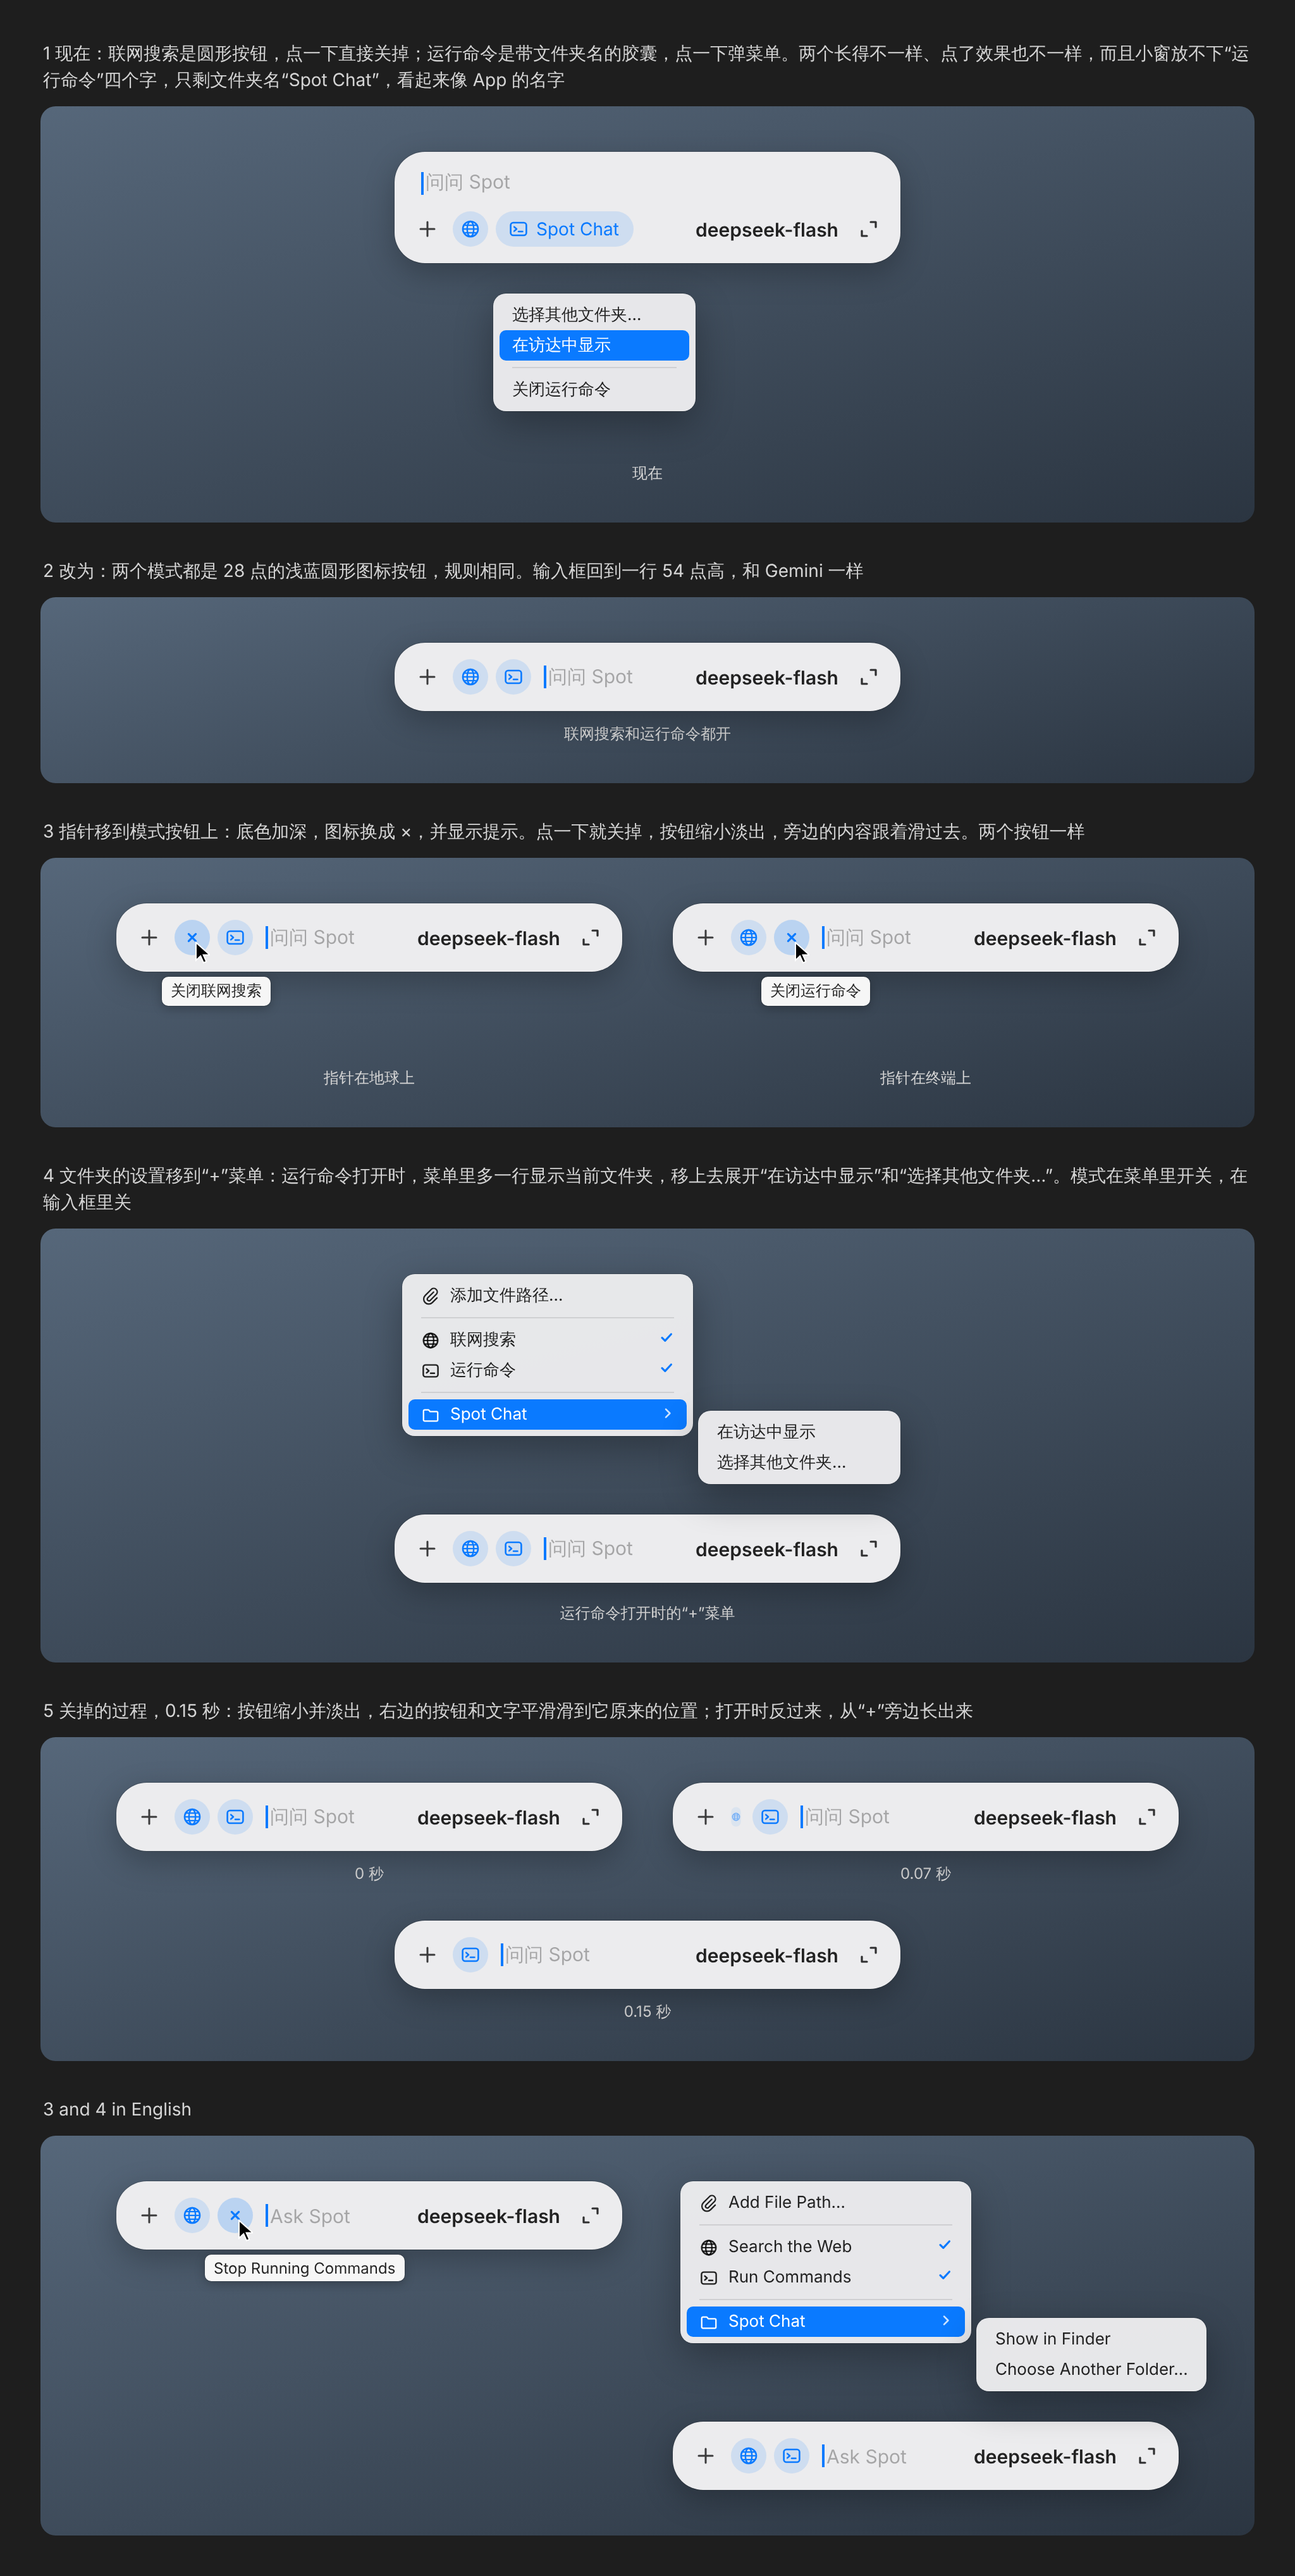
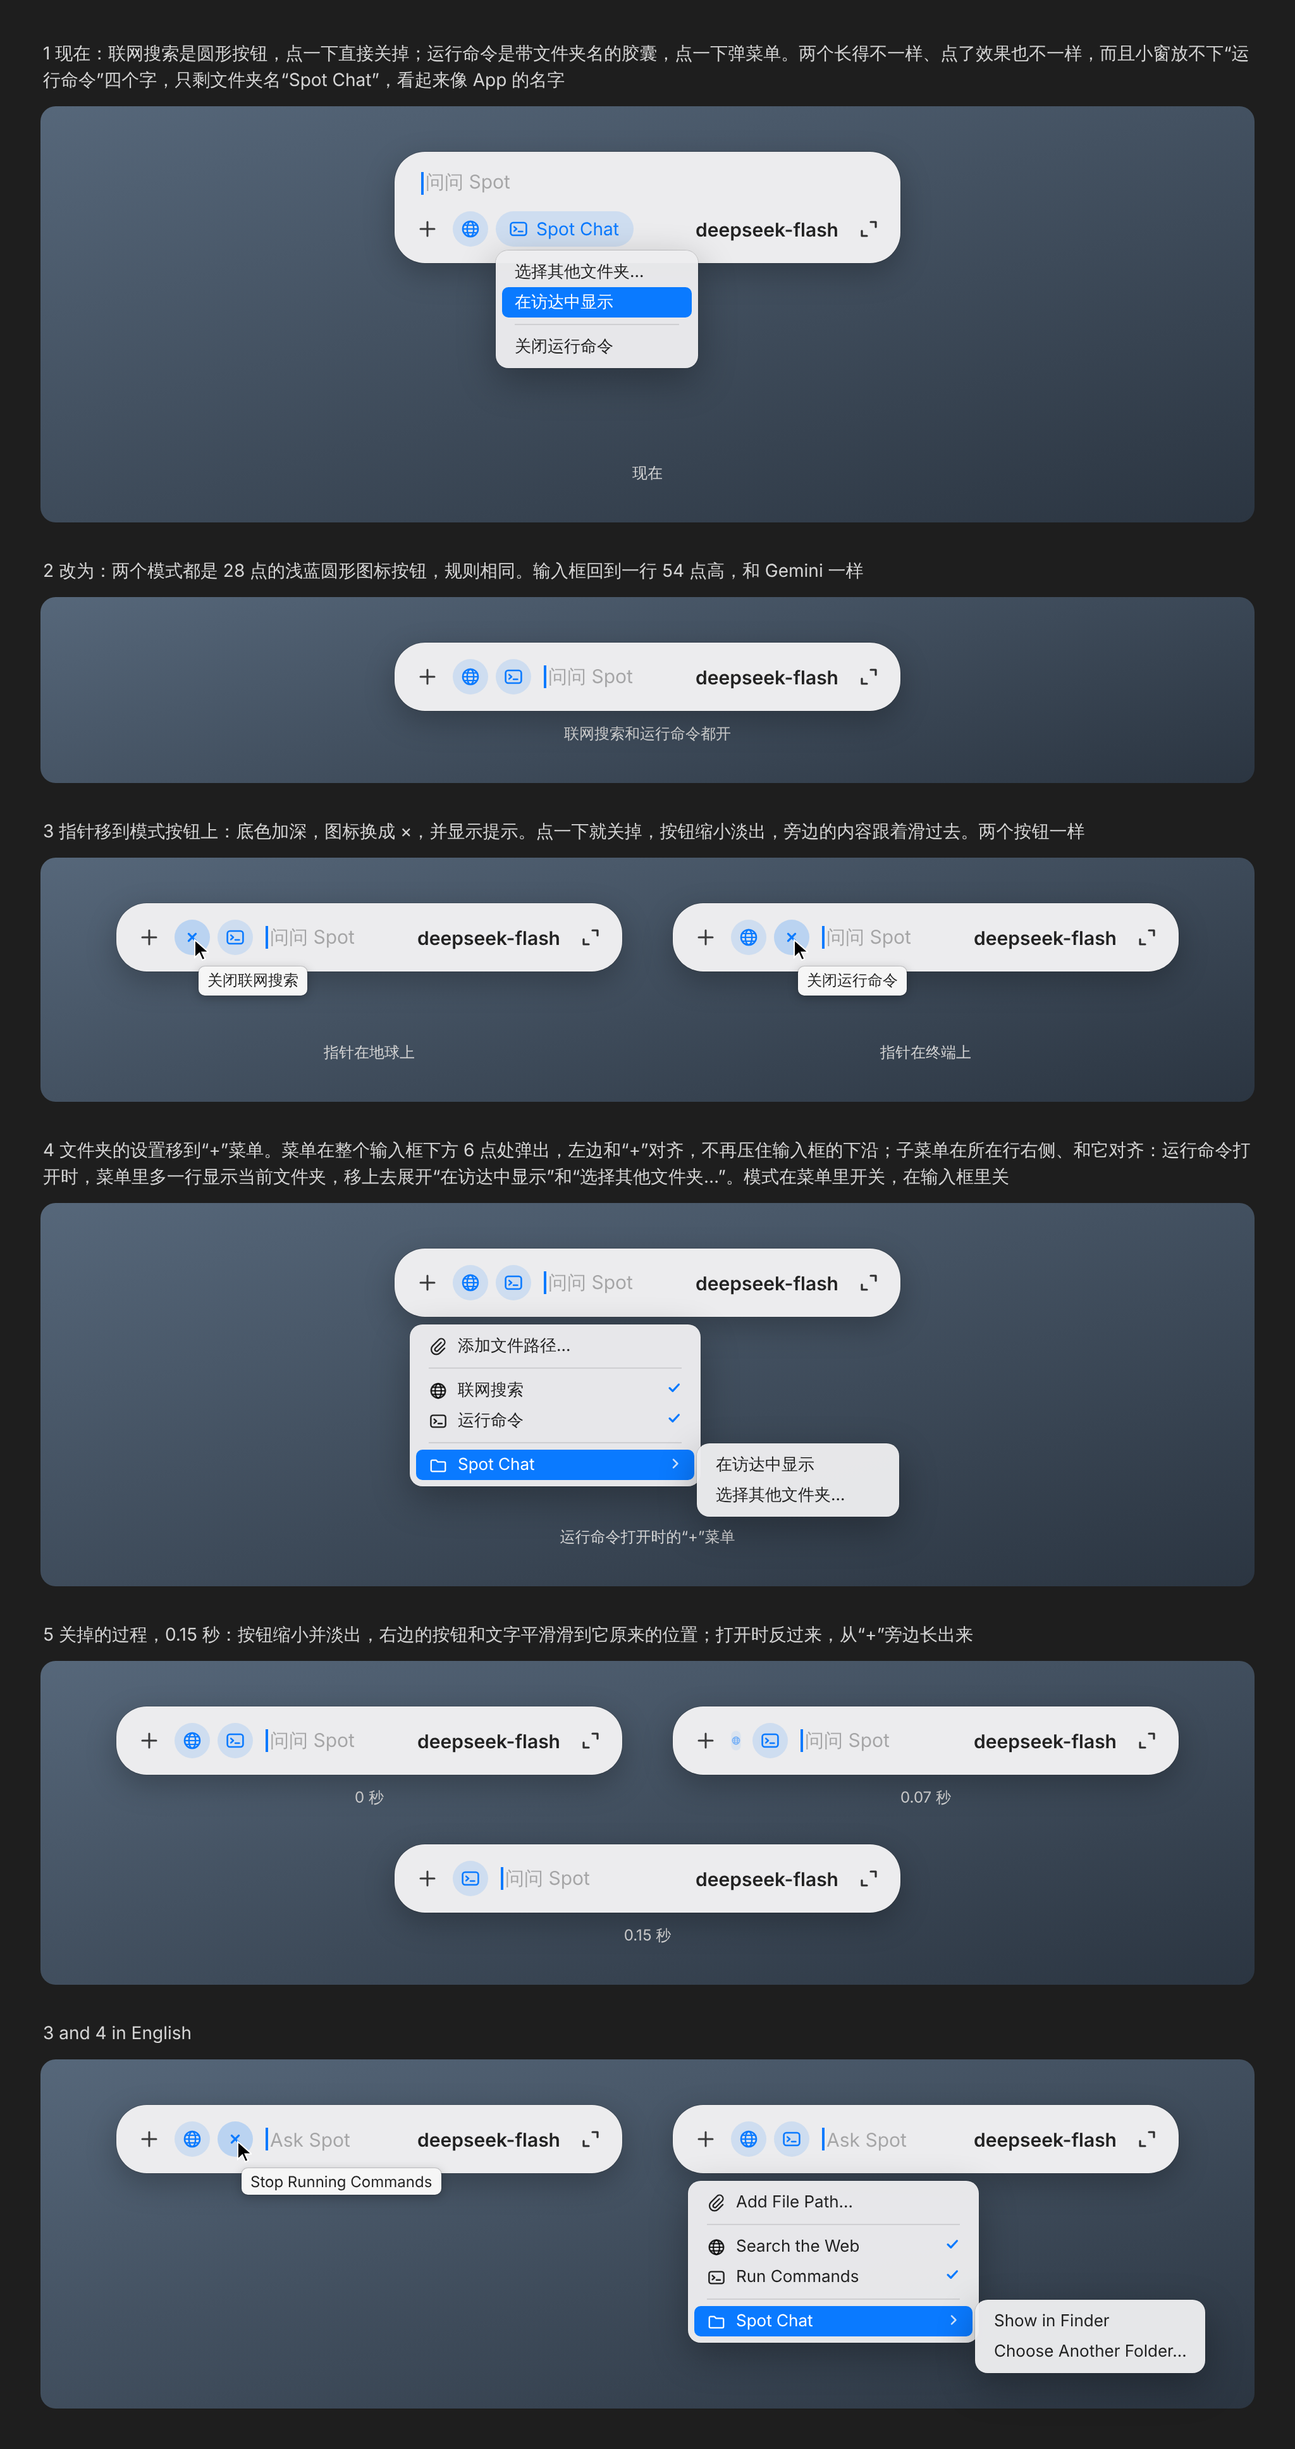
Mode buttons mockup: menus, submenus and tooltips where macOS puts them; the + menu below the whole input [skip ci]
Claude-Session: https://claude.ai/code/session_01REvHc4SjjqMcxY8UXeyBUw

Changed region(s): [[0.0312, 0.0, 0.9688, 0.9688], [0.75, 0.0, 0.7812, 0.0312]]

diff --git a/docs/design/mode-buttons.html b/docs/design/mode-buttons.html
@@ -75,7 +75,7 @@ body{margin:0;background:#1e1e1e;font-family:-apple-system,"SF Pro Text","PingFa
           <span class="b"><svg width="16" height="16"><use href="#expand"/></svg></span>
         </div>
       </div>
-      <div class="menu" style="left:78px;top:112px;min-width:160px">
+      <div class="menu" style="left:80px;top:78px;min-width:160px">
         <div class="mi">选择其他文件夹…</div><div class="mi sel">在访达中显示</div><div class="sep"></div><div class="mi">关闭运行命令</div>
       </div>
     </div><div class="label">现在</div></div>
@@ -98,9 +98,9 @@ body{margin:0;background:#1e1e1e;font-family:-apple-system,"SF Pro Text","PingFa
 </div>
 
 <div>
-  <p class="cap">4  文件夹的设置移到“+”菜单：运行命令打开时，菜单里多一行显示当前文件夹，移上去展开“在访达中显示”和“选择其他文件夹…”。模式在菜单里开关，在输入框里关</p>
+  <p class="cap">4  文件夹的设置移到“+”菜单。菜单在整个输入框下方 6 点处弹出，左边和“+”对齐，不再压住输入框的下沿；子菜单在所在行右侧、和它对齐：运行命令打开时，菜单里多一行显示当前文件夹，移上去展开“在访达中显示”和“选择其他文件夹…”。模式在菜单里开关，在输入框里关</p>
   <div class="stage">
-    <div class="cell"><div class="slot" data-bar="menu" style="height:240px"></div><div class="label">运行命令打开时的“+”菜单</div></div>
+    <div class="cell"><div class="slot" data-bar="menu"></div><div class="label">运行命令打开时的“+”菜单</div></div>
   </div>
 </div>
 
@@ -113,7 +113,7 @@ body{margin:0;background:#1e1e1e;font-family:-apple-system,"SF Pro Text","PingFa
   <p class="cap">3 and 4 in English</p>
   <div class="stage">
     <div class="cell"><div class="slot" data-bar="cmd-hover-en" style="height:110px"></div></div>
-    <div class="cell"><div class="slot" data-bar="menu-en" style="height:240px"></div></div>
+    <div class="cell"><div class="slot" data-bar="menu-en"></div></div>
   </div>
 </div>
 
@@ -124,18 +124,26 @@ body{margin:0;background:#1e1e1e;font-family:-apple-system,"SF Pro Text","PingFa
     const b = n.querySelector('.bar'); b.style.position = 'absolute'; b.style.top = top + 'px'
     slot.append(n); return slot.querySelector('.bar')
   }
+  // Where macOS puts things: a tooltip just below and right of the pointer's tip; a submenu beside its item,
+  // its first item level with that item. The + menu opens 6 below the whole input, lined up with the +,
+  // rather than 4 below the + button, which put it over the input's lower edge.
   function hover(b, which, tip, slot, en) {
+    if (en) b.querySelector('.ph').textContent = 'Ask Spot'
     const btn = b.querySelector(which); btn.classList.add('hover')
     btn.innerHTML = '<svg width="10" height="10"><use href="#x"/></svg>'
-    const t = document.createElement('div'); t.className = 'tip'; t.textContent = tip
-    const left = btn.offsetLeft; t.style.left = (left - 10) + 'px'; t.style.top = (b.offsetTop + 58) + 'px'
-    slot.append(t)
+    const x = b.offsetLeft + btn.offsetLeft + 15, y = b.offsetTop + btn.offsetTop + 15
     const p = document.createElementNS('http://www.w3.org/2000/svg', 'svg'); p.setAttribute('class', 'pointer')
-    p.innerHTML = '<use href="#arrow"/>'; p.style.left = (left + 16) + 'px'; p.style.top = (b.offsetTop + 30) + 'px'; slot.append(p)
-    if (en) b.querySelector('.ph').textContent = 'Ask Spot'
+    p.innerHTML = '<use href="#arrow"/>'; p.style.left = x + 'px'; p.style.top = y + 'px'; slot.append(p)
+    const t = document.createElement('div'); t.className = 'tip'; t.textContent = tip
+    t.style.left = (x + 4) + 'px'; t.style.top = (y + 22) + 'px'
+    slot.append(t)
   }
   function menu(slot, b, en) {
-    const m = document.createElement('div'); m.className = 'menu'; m.style.left = '6px'; m.style.top = '0px'; m.style.minWidth = '230px'
+    if (en) b.querySelector('.ph').textContent = 'Ask Spot'
+    const plus = b.querySelector('.b')
+    const m = document.createElement('div'); m.className = 'menu'; m.style.minWidth = '230px'
+    m.style.left = (b.offsetLeft + plus.offsetLeft) + 'px'
+    m.style.top = (b.offsetTop + b.offsetHeight + 6) + 'px'
     const z = en
       ? ['Add File Path…', 'Search the Web', 'Run Commands', 'Spot Chat', 'Show in Finder', 'Choose Another Folder…']
       : ['添加文件路径…', '联网搜索', '运行命令', 'Spot Chat', '在访达中显示', '选择其他文件夹…']
@@ -145,18 +153,20 @@ body{margin:0;background:#1e1e1e;font-family:-apple-system,"SF Pro Text","PingFa
       <div class="sep"></div>
       <div class="mi sel"><svg width="15" height="15"><use href="#folder"/></svg>${z[3]}<span class="r"><svg width="10" height="10"><use href="#chev"/></svg></span></div>`
     slot.append(m)
-    const s = document.createElement('div'); s.className = 'menu'; s.style.left = '240px'; s.style.top = '108px'; s.style.minWidth = '160px'
+    const item = m.querySelector('.mi.sel')
+    const s = document.createElement('div'); s.className = 'menu'; s.style.minWidth = '160px'
+    s.style.left = (m.offsetLeft + m.offsetWidth - 3) + 'px'
+    s.style.top = (m.offsetTop + item.offsetTop - 5) + 'px'
     s.innerHTML = `<div class="mi">${z[4]}</div><div class="mi">${z[5]}</div>`
     slot.append(s)
-    if (en) b.querySelector('.ph').textContent = 'Ask Spot'
   }
   for (const slot of document.querySelectorAll('[data-bar]')) {
     const kind = slot.dataset.bar
     if (kind === 'menu' || kind === 'menu-en') {
-      slot.style.height = '250px'
-      const b = bar(slot, 190); menu(slot, b, kind === 'menu-en')
+      slot.style.height = '210px'
+      const b = bar(slot, 0); menu(slot, b, kind === 'menu-en')
     } else if (kind) {
-      slot.style.height = '120px'
+      slot.style.height = '100px'
       const b = bar(slot, 0)
       if (kind === 'search-hover') hover(b, '[data-search]', '关闭联网搜索', slot)
       if (kind === 'cmd-hover') hover(b, '[data-cmd]', '关闭运行命令', slot)
